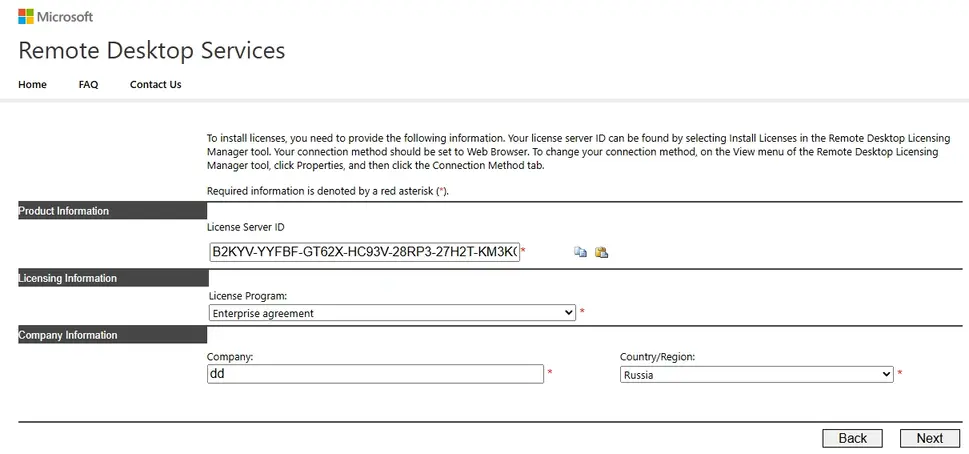
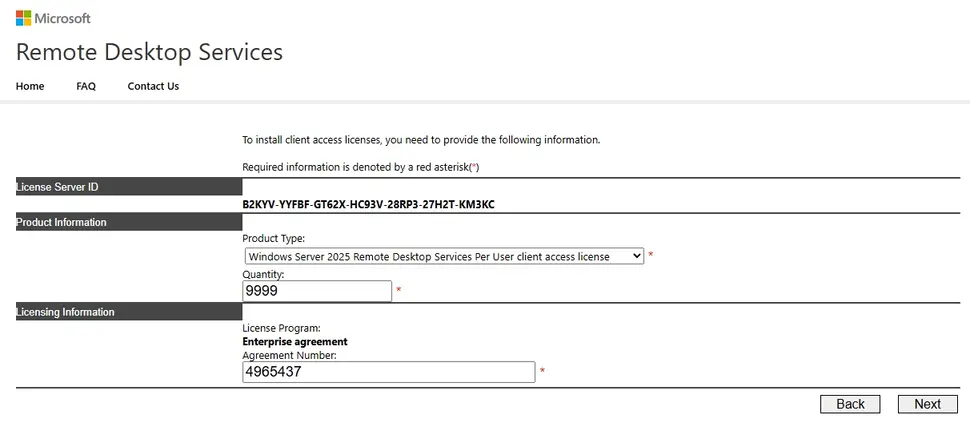
x
x

diff --git a/content/posts/Windows Terminal Free/index.md b/content/posts/Windows Terminal Free/index.md
@@ -1,7 +1,7 @@
 ---
 title: "Windows Server Terminal"
 discription: Windows Server
-date: 2025-05-01T21:29:01+08:00 
+date: 2025-04-01T21:29:01+08:00 
 draft: false
 type: post
 tags: ["Terminal","RDP","Windows Server"]
@@ -15,143 +15,152 @@ showTableOfContents: true
 
 ### Add Terminal to  Domain
 
-1. set dns of DC server
+1. set DNS of DC server (if not work disable DNSv6)
 ![img1](images/1.webp)
 
-2. domain or workgroup
-![img2](images/2.webp)
-
-3. 
+2. Change 
 ![img3](images/3.webp)
 
-4.
+3. Choose domain my domain `dan.local`
 ![img4](images/4.webp)
 
-
-5.
-![img5](images/5.webp)
-
-6.
+4. Done !
 ![img6](images/6.webp)
 
-7.
+### Troubleshooter
+
+1. If  doesn't connect to domain - disable ipv6
+![img5](images/5.webp)
+
+2. Network Level Authentication 
 ![img7](images/7.webp)
 
-8
-![img8](images/8.webp)
-
-9.
+9. Run `sysdm.cpl` 
 ![img9](images/9.webp)
 
-10.
+8. Disable NLA
+![img8](images/8.webp)
+
+
+
+### Create Terminal and Adds Roles 
+
+10. Manage > Add Roles and Features
 ![img10](images/10.webp)
 
-11.
+11. Next 
 ![img11](images/11.webp)
 
-12.
+12. Select Role-based or feature-based installation and Next
 ![img12](images/12.webp)
 
 
-13.
+13. Next 
 ![img13](images/13.webp)
 
 
-14.
+14. [x] Remote Desktop Services , Next 
 ![img14](images/14.webp)
 
-15
+15. [x] NET. Framework 4.8 Features, Next
 ![img15](images/15.webp)
 
-16.
+16. [x] Remote Desktop Licensing, Next 
 ![img16](images/16.webp)
 
-17.
+17. Add Features
 ![img17](images/17.webp)
 
-18.
-![img18](images/18.webp)
-
-19.
+18. [x] Remote Desktop Licensing Diagnoser, Next 
 ![img19](images/19.webp)
 
-20.
+19. Add Features
+![img18](images/18.webp)
+
+20. Install
 ![img20](images/20.webp)
 
-21.
+21. After install Close
 ![img21](images/21.webp)
 
-22.
+> Done !
+
+
+### RD Licensing Activation Free
+
+1. Open RD Licensing Manager
 ![img22](images/22.webp)
 
-23.
+2. Active Server, Next
 ![img23](images/23.webp)
 
-24.
+3. Next
 ![img24](images/24.webp)
 
-25.
+4. Open https://activate.microsoft.com/
+
+5. Select Activate a license server > Next
 ![img25](images/25.webp)
 
-
-26.
+6. Fill all and Next 
 ![img26](images/26.webp)
 
-27.
+7. ID Product you can find here :
+![img2](images/2.webp)
+
+
+
+8. Next
 ![img27](images/27.webp)
 
-
+9. Copy and save activatin key
 ![img28](images/28.webp)
 
-
+10. Past Key here:
 ![img29](images/29.webp)
 
-
+11. [x] and Next
 ![img30](images/30.webp)
 
-
+12. Next
 ![img31](images/31.webp)
 
-
+13. Open https://activate.microsoft.com/ and Choose `Install Client Access Licenses`
 ![img32](images/32.webp)
 
-
+14. Past key and choose `Enterprise agreement` and Next
 ![img33](images/33.webp)
 
-
+15. Choose per device or per user and Enterprise agreement Number (take random from google.com)
 ![img34](images/34.webp)
 
-
+16. Difference:
 ![img35](images/35.webp)
 
-
+17. Next
 ![img36](images/36.webp)
 
-
+18. Copy New Licence Key
 ![img37](images/37.webp)
 
-
+19. Past New Licence Key to Server
 ![img38](images/38.webp)
 
-
+20. Finish
 ![img39](images/39.webp)
 
-
+21. Done !
 ![img40](images/40.webp)
 
+### GPO 
 
-![img41](images/41.webp)
+1. Run `gpedit.msc`
 
 
+2. Go to Computer Configuration > Administrative Templates > Windows Components > Remote Desktop Services > Remote Desktop Session Host > Licensing and configure the following options:
+
+3. **Use the specified Remote Desktop license servers** – specify the name or the IP address of the server where the RDS license is installed;
 ![img42](images/42.webp)
 
-
-```
-```
-
-```
-```
-
-
-```
-```
+4. **Set the Remote Desktop licensing mode** – select the license type for RDS CALs.
+![img41](images/41.webp)
